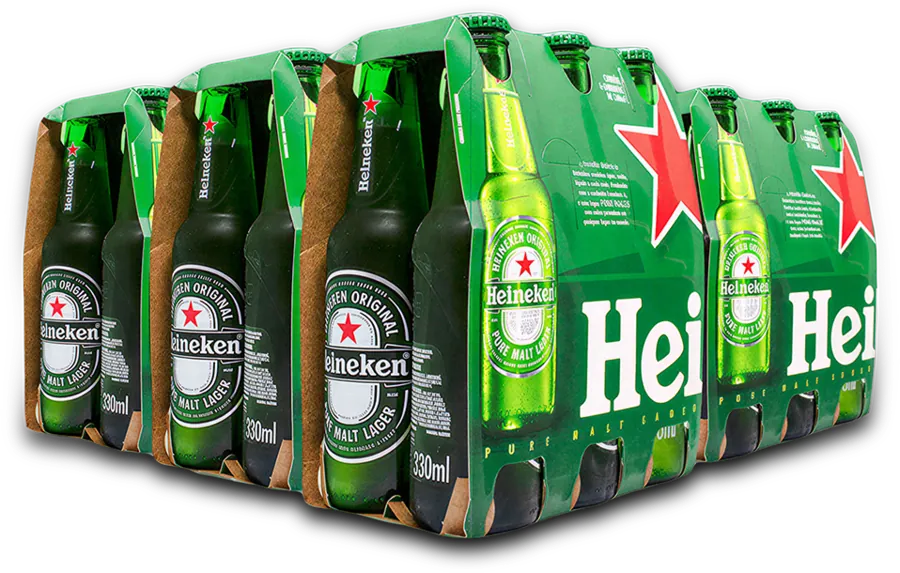
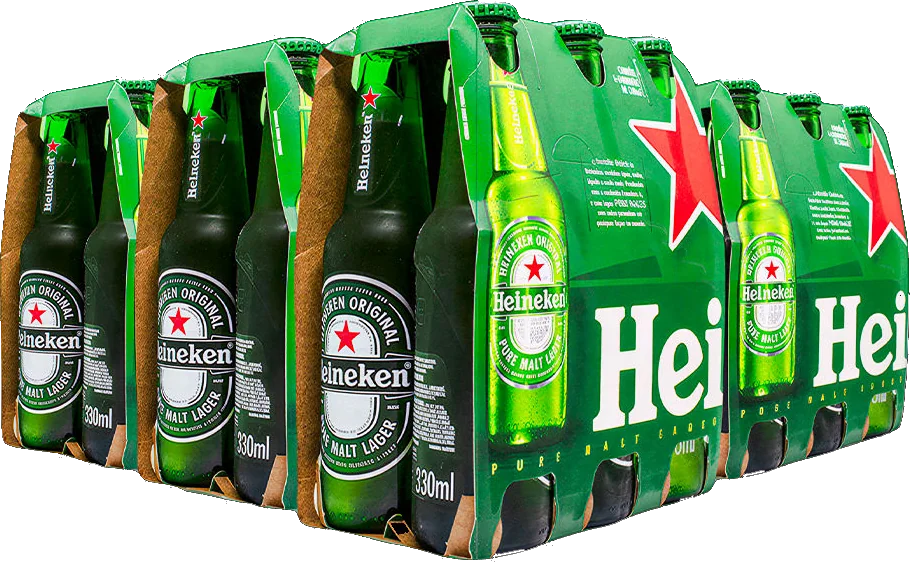
New multipack packshot (keyed from black), darker attract backdrop; Crate Stacker background filters baked per tile
- multipack.webp replaced with the new supplied packshot; service worker cache bumped to v8
- Attract backdrop: deeper radial gradient and a taller bottom fade; multipack hero larger
- Crate Stacker: background stacks apply the canvas filter once per small tile instead of
  per draw on the full-screen layer (slow on software canvases)
- ASSETS.md: multipack no longer used for the Star Catcher shelf

diff --git a/src/game/crate-stacker.ts b/src/game/crate-stacker.ts
@@ -260,24 +260,35 @@ export class CrateStacker implements Game<CrateResult> {
     const groupH = H / groups;
     const perGroup = Math.max(1, Math.floor((groupH - pallet) / face));
     const step = (groupH - pallet) / perGroup;
+    const crateDrawH = ch * (step / face);
     // Muted and dark: the background stacks must never read like the player's crates.
-    ctx.filter = `brightness(${light}) saturate(${sat})${blur ? ` blur(${blur}px)` : ""}`;
+    // The filter runs once per small tile, never per draw on the full-screen layer: a
+    // software canvas (Android WebView) takes seconds per filtered full-layer draw.
+    const filter = `brightness(${light}) saturate(${sat})${blur ? ` blur(${blur}px)` : ""}`;
+    const pad = Math.ceil(blur * 3);
+    const crateTile = makeSprite(crateW + pad * 2, crateDrawH + pad * 2, (t) => {
+      t.filter = filter;
+      t.drawImage(img, pad, pad, crateW, crateDrawH);
+    });
+    const palletTile = makeSprite(crateW * 1.08 + pad * 2, pallet + pad * 2, (t) => {
+      t.filter = filter;
+      t.translate(pad + crateW * 0.04, pad);
+      t.fillStyle = "#6b4a22";
+      t.fillRect(-crateW * 0.04, 0, crateW * 1.08, pallet * 0.45);
+      t.fillStyle = "#3d2a12";
+      for (const bx of [0, 0.46, 0.92]) t.fillRect(crateW * bx - crateW * 0.02, pallet * 0.45, crateW * 0.1, pallet * 0.55);
+    });
     for (const x of cols) {
       for (let gI = 0; gI < groups; gI++) {
         const base = (gI + 1) * groupH;
-        // Pallet under each group: deck boards over blocks.
-        ctx.fillStyle = "#6b4a22";
-        ctx.fillRect(x - crateW * 0.04, base - pallet, crateW * 1.08, pallet * 0.45);
-        ctx.fillStyle = "#3d2a12";
-        for (const bx of [0, 0.46, 0.92]) ctx.fillRect(x + crateW * bx - crateW * 0.02, base - pallet * 0.55, crateW * 0.1, pallet * 0.55);
+        ctx.drawImage(palletTile.canvas, x - crateW * 0.04 - pad, base - pallet - pad);
         // Crates bottom-up: each one covers the open top of the crate below.
         for (let c = 0; c < perGroup; c++) {
           const bottom = base - pallet - c * step;
-          ctx.drawImage(img, x, bottom - ch * (step / face), crateW, ch * (step / face));
+          ctx.drawImage(crateTile.canvas, x - pad, bottom - crateDrawH - pad);
         }
       }
     }
-    ctx.filter = "none";
     // Depth haze over the layer.
     const haze = ctx.createLinearGradient(0, 0, W, 0);
     const a = blur > 1 ? 0.6 : 0.22;

diff --git a/src/kiosk/ui/parts.tsx b/src/kiosk/ui/parts.tsx
@@ -70,7 +70,7 @@ export function Backdrop({ lite = false, tint }: { lite?: boolean; tint?: keyof 
     <div className="pointer-events-none absolute inset-0 overflow-hidden" aria-hidden>
       <div
         className="absolute inset-0"
-        style={{ background: "radial-gradient(110% 62% at 50% 36%, #4faa33 0%, #2a8a33 22%, #136528 48%, #0a4a1d 72%, #052a12 100%)" }}
+        style={{ background: "radial-gradient(110% 52% at 50% 30%, #2f8a2e 0%, #1c7029 20%, #0e5222 42%, #073818 64%, #03200c 100%)" }}
       />
       {tint && <div className="absolute inset-0" style={{ background: TINT[tint] }} />}
       <StageRig lite={lite} />
@@ -84,7 +84,7 @@ export function Backdrop({ lite = false, tint }: { lite?: boolean; tint?: keyof 
             <OfficialStar size={34 + (i % 3) * 12} />
           </div>
         ))}
-      <div className="absolute inset-x-0 bottom-0 h-[420px]" style={{ background: "linear-gradient(0deg, rgba(5,42,18,0.95), rgba(5,42,18,0))" }} />
+      <div className="absolute inset-x-0 bottom-0 h-[1200px]" style={{ background: "linear-gradient(0deg, rgba(3,28,11,0.98) 0%, rgba(3,28,11,0.85) 45%, rgba(3,28,11,0) 100%)" }} />
     </div>
   );
 }
@@ -93,13 +93,13 @@ export function Backdrop({ lite = false, tint }: { lite?: boolean; tint?: keyof 
 export function ProductHero() {
   return (
     <div className="relative h-[780px] w-[1080px]">
-      <div className="absolute left-1/2 top-[150px] -translate-x-1/2">
+      <div className="absolute left-1/2 top-[110px] -translate-x-1/2">
         {/* eslint-disable-next-line @next/next/no-img-element -- supplied multipack photo */}
         <img
           src="/assets/brand/multipack.webp"
           alt="Heineken multipack"
           draggable={false}
-          className="w-[900px] max-w-none"
+          className="w-[1040px] max-w-none"
           style={{ filter: "drop-shadow(0 6px 10px rgba(0,25,8,0.45))" }}
         />
       </div>

diff --git a/public/sw.js b/public/sw.js
@@ -7,7 +7,7 @@
  * are cached too.
  */
 // Bump when files under /assets change in place (same path, new content).
-const CACHE = "hk-shell-v7";
+const CACHE = "hk-shell-v8";
 const SHELL = [
   "/",
   "/manifest.webmanifest",

diff --git a/ASSETS.md b/ASSETS.md
@@ -15,7 +15,7 @@ These assets were included **at the project owner's request**, on the basis that
 | `brand/heineken-logo.svg` | https://www.heineken.com/media/zmnkoinc/heineken-logo.svg | Vector logo (white wordmark, red star, "EST. 1873") | Heineken trademark, client licence required | None (13.8 KB vector) | Attract and select screens; crate wordmark (cropped at runtime) |
 | `brand/star.png` | Derived from the logo above | Official red star with white keyline, 1024x977 PNG | As above | Re-cut 2026-10-02 from the logo's vector paths (red star + white keyline only), rendered with rsvg-convert at 10x and downscaled: crisp at the 720 px attract size (the old 512 px cut was upscaled) | All in-game stars, the golden-star variant, menu stars, stage-rig centre plate |
 | `brand/glass.webp` | Supplied by the project owner (2026-10-02, `heineken.png`) | Heineken pint glass, transparent cut-out, 2160x3840 PNG | As above | Trimmed to the glass, 369x720 WebP q90 with alpha (81 KB). Interior measured from its alpha at runtime (`makeGlassArt`) | Star Catcher catcher with beer fill, select card, intro icon, attract hero (rendered with beer) |
-| `brand/multipack.webp` | Supplied by the project owner (2026-10-02, `Artboard_1.png`) | Four Heineken 6-packs, transparent cut-out, 1000x666 PNG | As above | Trimmed, 900x573 WebP q80 with alpha (106 KB) | Attract hero, Star Catcher back-bar shelf, Crate Stacker warehouse racking, prize card when no prize photo is set |
+| `brand/multipack.webp` | Supplied by the project owner (2026-10-02, replacement packshot on black) | Four Heineken 6-packs, 1000x635 JPG on solid black | As above | Black background keyed out by border flood-fill (dark glass kept opaque), trimmed, 910x562 WebP q85 with alpha (136 KB) | Attract hero, Crate Stacker warehouse racking, prize card when no prize photo is set |
 | `brand/enjoy-responsibly.svg` | https://www.heineken.com/media/e0uigisg/enjoy-responsibly.svg | Responsible-consumption "e" mark | As above | None (7.4 KB) | Footer of every player screen |
 | `brand/crate.webp` | https://www.jumbo.com/dam-images/Products/25032024_1711381870774_1711381878587_8712000033040_5.png (official GS1 packshot of Heineken 24x30cl crate, EAN 8712000033040, as distributed to retailers) | Product photo, 3/4 view crate with bottle caps | Heineken trademark/copyright, client licence required | 2246x1644 PNG (5 MB) → 1000x732 WebP q88 (68 KB) | Crate Stacker crates (sliced through the photo), Star Catcher catcher, menus and hero |
 | `brand/bottle.webp` | https://www.heineken.com/media/iene2ygx/heineken-original-bottle.png | Product photo, Heineken Original bottle | As above | 1506x2258 PNG (2.0 MB) → 733x1100 WebP q84 (91 KB) | Attract hero, next to the crate |
